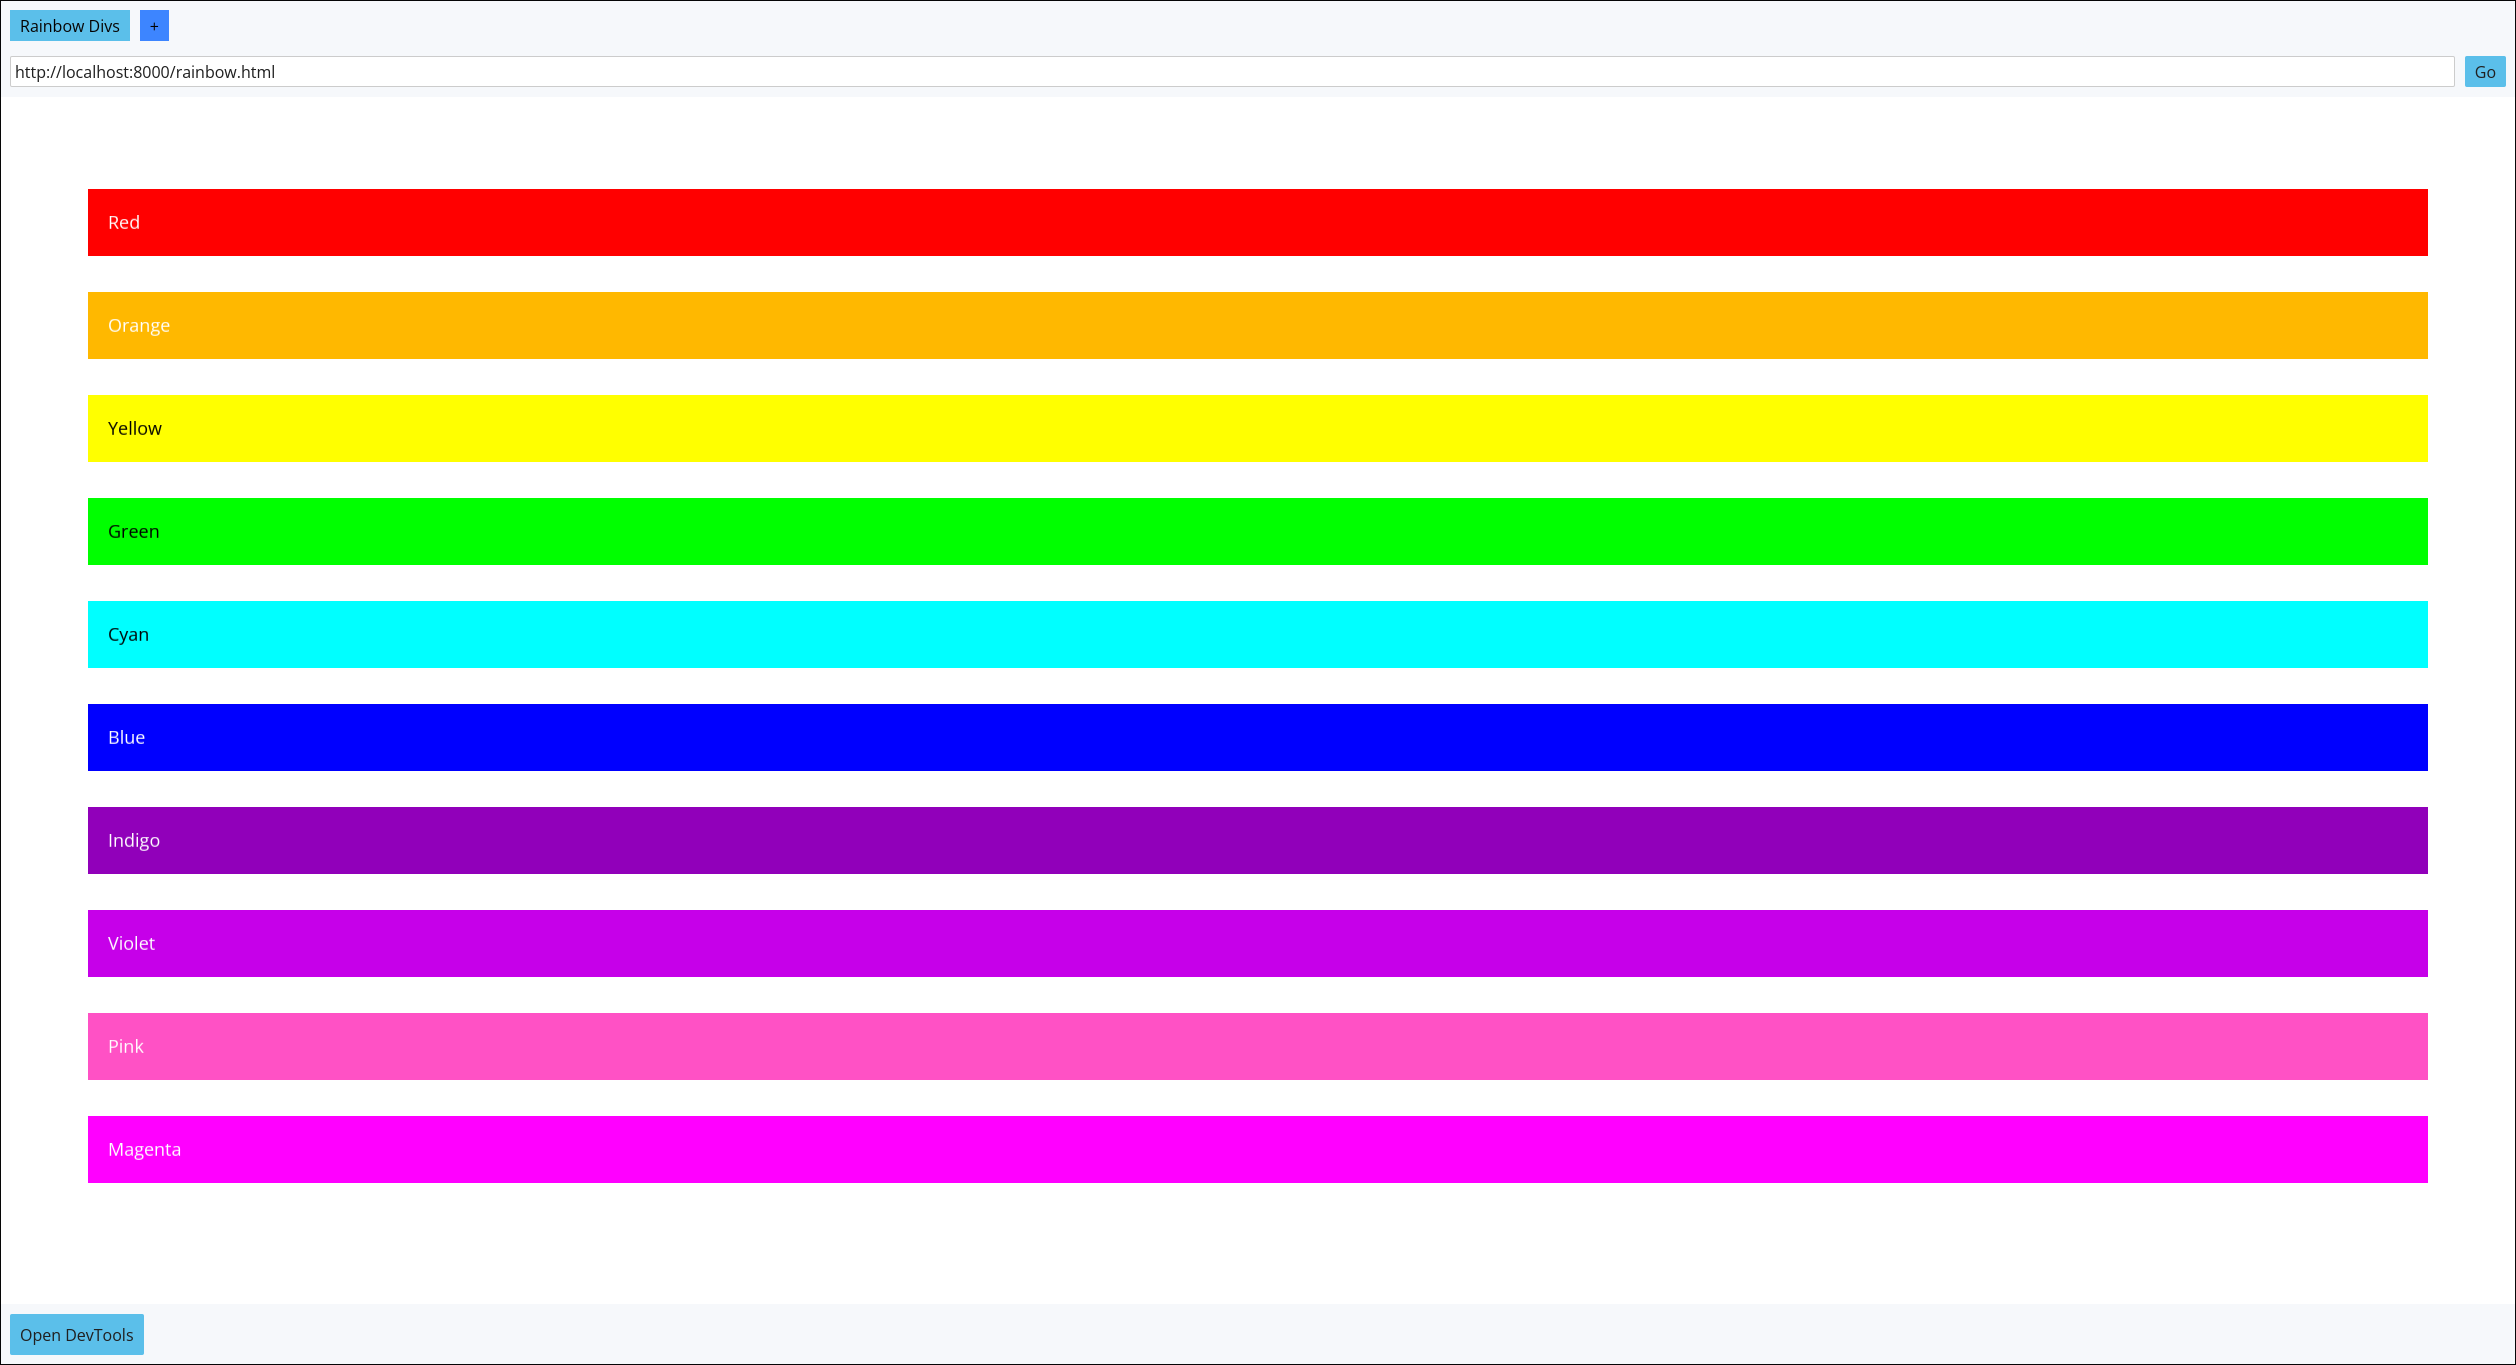
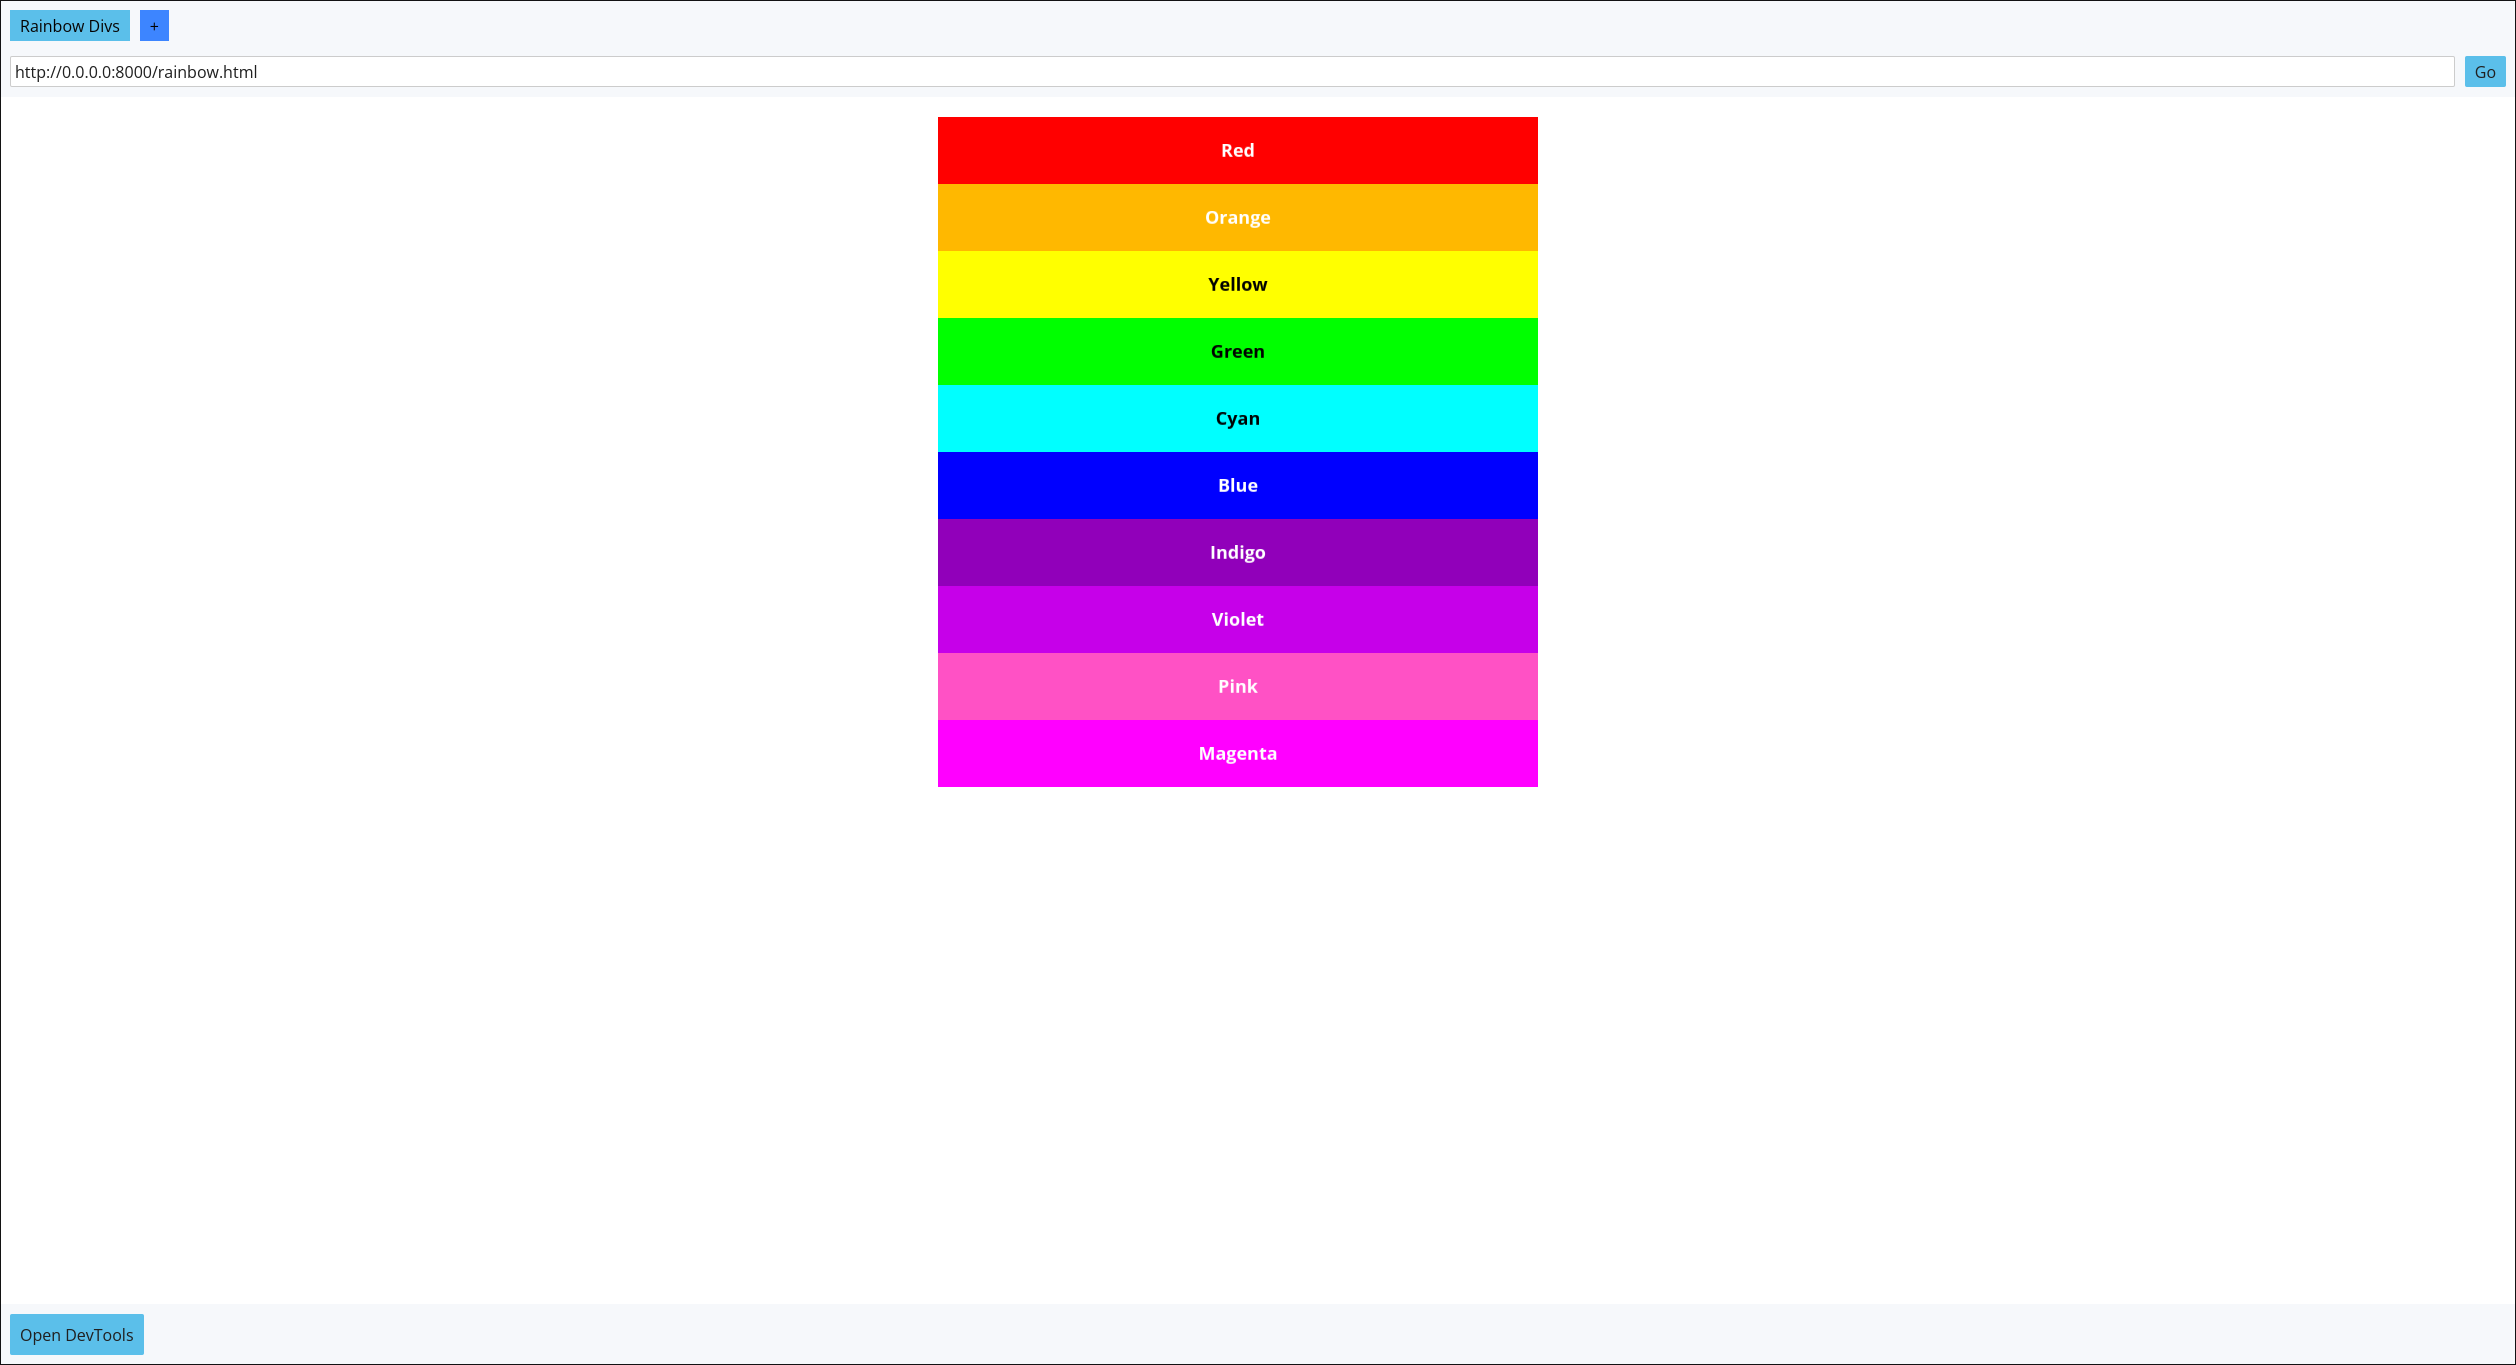
feat: Update README

diff --git a/docs/preview.html b/docs/preview.html
@@ -9,12 +9,17 @@
                 margin: 0;
                 padding: 20px;
             }
-            div {
-                margin: 2rem;
+
+            .rainbow-container {
+                max-width: 600px;
+                margin: 0 auto;
             }
+
             .color-div {
                 padding: 20px;
+                text-align: center;
                 font-size: 18px;
+                font-weight: bold;
                 color: white;
             }
             .red {
